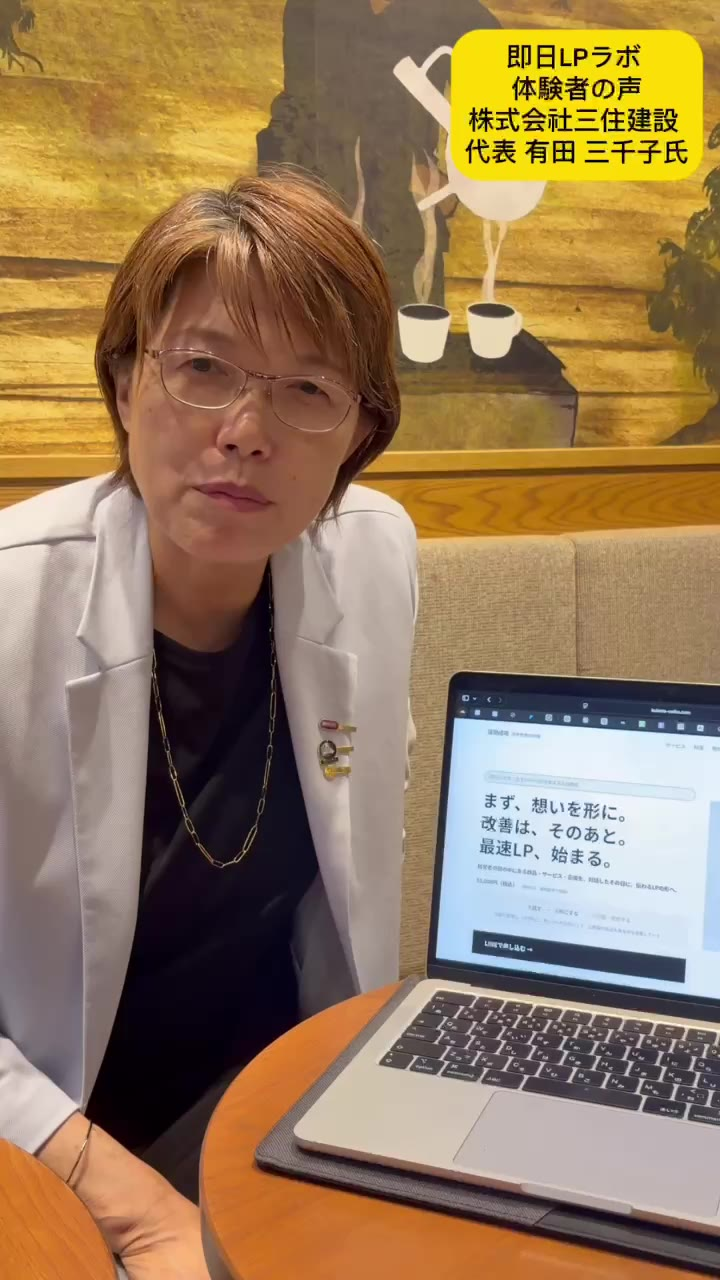
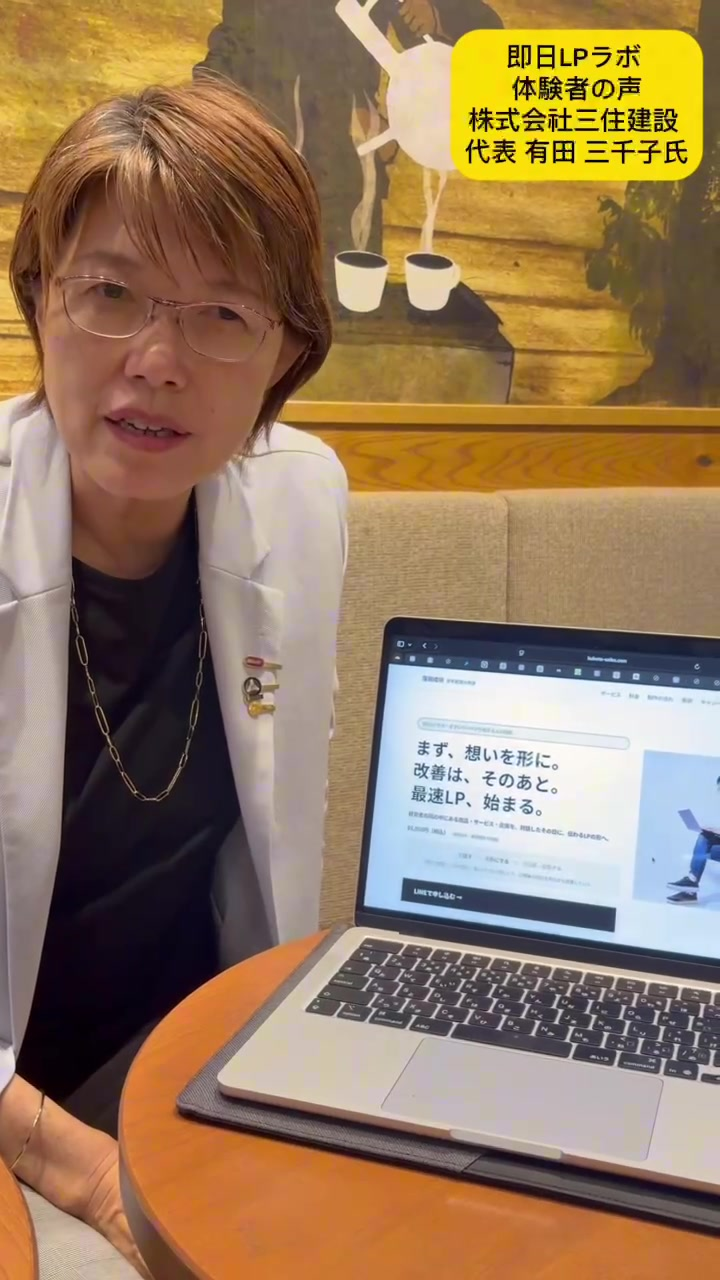
変更: 即日LPラボFVを1カラム化し、サブコピー直下に有田様の体験動画を配置(見出しキャプション+▶再生+社名/笑顔ポスター)

diff --git a/sokujitsu-lp-lab/index.html b/sokujitsu-lp-lab/index.html
@@ -73,10 +73,19 @@
   .nav-cta{background:var(--ink);color:#fff !important;padding:9px 18px;border-radius:2px;font-size:13px;}
   @media(max-width:900px){.nav-right a:not(.nav-cta){display:none;}}
 
-  .shero{position:relative;display:grid;grid-template-columns:1.2fr .8fr;align-items:stretch;gap:40px;min-height:720px;max-width:1120px;margin:0 auto;padding:0 28px;overflow:hidden;}
+  .shero{position:relative;max-width:760px;margin:0 auto;padding:0 28px;overflow:hidden;}
   .shero-copy{padding:150px 0 60px 0;display:flex;flex-direction:column;justify-content:center;position:relative;z-index:2;}
   .shero-copy h1{font-size:clamp(36px,6vw,70px);letter-spacing:.02em;font-weight:800;line-height:1.3;}
   .shero-tagline{margin-top:14px;font-size:clamp(17px,2.2vw,26px);font-weight:700;line-height:1.55;color:var(--sub);letter-spacing:.02em;}
+  .hero-video-block{margin:26px 0 8px;max-width:620px;}
+  .hvb-head{font-size:clamp(18px,2.6vw,23px);font-weight:800;line-height:1.55;color:var(--ink);letter-spacing:.01em;}
+  .hvb-sub{font-size:12.5px;color:var(--sub);line-height:1.7;margin-top:7px;}
+  .hvb-player{position:relative;width:100%;max-width:340px;margin:14px 0 0;border-radius:14px;overflow:hidden;background:#000;aspect-ratio:9/16;box-shadow:0 12px 30px rgba(0,0,0,.14);cursor:pointer;}
+  .hvb-player video{position:absolute;inset:0;width:100%;height:100%;object-fit:cover;display:block;}
+  .hvb-play{position:absolute;left:50%;top:50%;transform:translate(-50%,-50%);width:64px;height:64px;border-radius:50%;border:none;background:rgba(255,255,255,.92);cursor:pointer;display:flex;align-items:center;justify-content:center;box-shadow:0 6px 18px rgba(0,0,0,.3);transition:transform .2s,background .2s;}
+  .hvb-play::before{content:"";display:block;width:0;height:0;border-style:solid;border-width:11px 0 11px 18px;border-color:transparent transparent transparent #1A1A1A;margin-left:4px;}
+  .hvb-play:hover{transform:translate(-50%,-50%) scale(1.06);background:#fff;}
+  .hvb-name{font-size:12.5px;font-weight:700;color:var(--ink);margin-top:10px;}
   .shero-copy .lead{max-width:540px;margin-top:36px;font-size:16.5px;line-height:1.9;color:var(--ink);}
   .badge-monitor{display:inline-block;background:var(--soft);border:1px solid var(--gold);color:var(--gold);font-size:12px;font-weight:700;letter-spacing:.08em;padding:6px 14px;border-radius:999px;margin-bottom:18px;}
   .shero-visual{position:relative;overflow:hidden;background:#fff;min-height:320px;}
@@ -90,7 +99,6 @@
   .hero-bg-controls .hs-dots button{width:7px;height:7px;border-radius:50%;background:rgba(255,255,255,.6);border:none;padding:0;cursor:pointer;}
   .hero-bg-controls .hs-dots button.active{background:var(--gold);}
   @media(max-width:900px){.shero{display:block;min-height:auto;grid-template-columns:none;}.shero-copy{padding:130px 0 40px;}.shero-visual{height:340px;min-height:0;}.hero-bg-controls{top:auto;bottom:12px;}}
-  @media(max-width:900px){.shero-visual{height:auto;min-height:0;aspect-ratio:9/16;max-height:78vh;width:100%;}}
   .cta{display:inline-flex;align-items:center;gap:10px;background:var(--ink);color:#fff !important;padding:19px 38px;border-radius:2px;font-size:16.5px;font-weight:700;letter-spacing:.02em;box-shadow:0 10px 24px rgba(0,0,0,.14);transition:transform .25s,box-shadow .25s;margin-top:30px;}
   .cta:hover{transform:translateY(-3px);box-shadow:0 16px 34px rgba(0,0,0,.2);}
   .cta-secondary{display:inline-block;margin-top:16px;font-size:13.5px;color:var(--sub);text-decoration:underline;opacity:.85;}
@@ -238,6 +246,18 @@
     <h1>即日LP、始まる。</h1>
     <p class="shero-tagline">まず、想いを形に。改善は、そのあと。</p>
     <p style="font-size:15px;font-weight:700;color:var(--ink);line-height:1.85;margin-top:16px;max-width:620px;">経営者の頭の中にある商品・サービス・企画を、対話したその日に、伝わるLPの形へ。</p>
+    <div class="hero-video-block reveal">
+      <p class="hvb-head">たった2時間の対話で、<br>ここまで形になりました。</p>
+      <p class="hvb-sub">「ChatGPTでもダメだったのに…」2時間の対話でLPが完成した、リアルな感想（1分28秒）</p>
+      <div class="hvb-player" id="aritaPlayer">
+        <video playsinline preload="none" poster="/images/arita-taiken-poster.jpg">
+          <source src="/videos/arita-taiken.mp4" type="video/mp4">
+        </video>
+        <button type="button" class="hvb-play" aria-label="動画を再生"></button>
+      </div>
+      <p class="hvb-name">株式会社三住建設 代表取締役・有田 三千子 氏</p>
+    </div>
+    <script>(function(){var p=document.getElementById('aritaPlayer');if(!p)return;var v=p.querySelector('video');var b=p.querySelector('.hvb-play');function go(){v.setAttribute('controls','');v.play();b.style.display='none';}b.addEventListener('click',go);v.addEventListener('play',function(){b.style.display='none';});})();</script>
     <p style="font-size:15px;font-weight:700;color:var(--ink);margin-top:14px;max-width:620px;">55,000円（税込）<span style="font-size:11px;font-weight:400;color:var(--sub);margin-left:6px;">（原則1日・最短即日で初稿）</span></p>
     <div class="hero-flow" style="margin-top:18px;max-width:620px;background:#FCFAF5;border:1px solid #EEE7D6;border-radius:8px;padding:14px 14px 12px;">
       <div style="display:flex;align-items:center;justify-content:center;gap:12px;flex-wrap:wrap;">
@@ -264,11 +284,6 @@
       </div>
       <p class="cm-note">※料金・納期は制作範囲により変動します。最短即日は初稿(たたき台)で、公開は内容により前後します。</p>
     </div>
-  </div>
-  <div class="shero-visual">
-    <video class="shero-video" controls playsinline preload="none" poster="/images/arita-taiken-poster.jpg">
-      <source src="/videos/arita-taiken.mp4" type="video/mp4">
-    </video>
   </div>
 </section>
 
